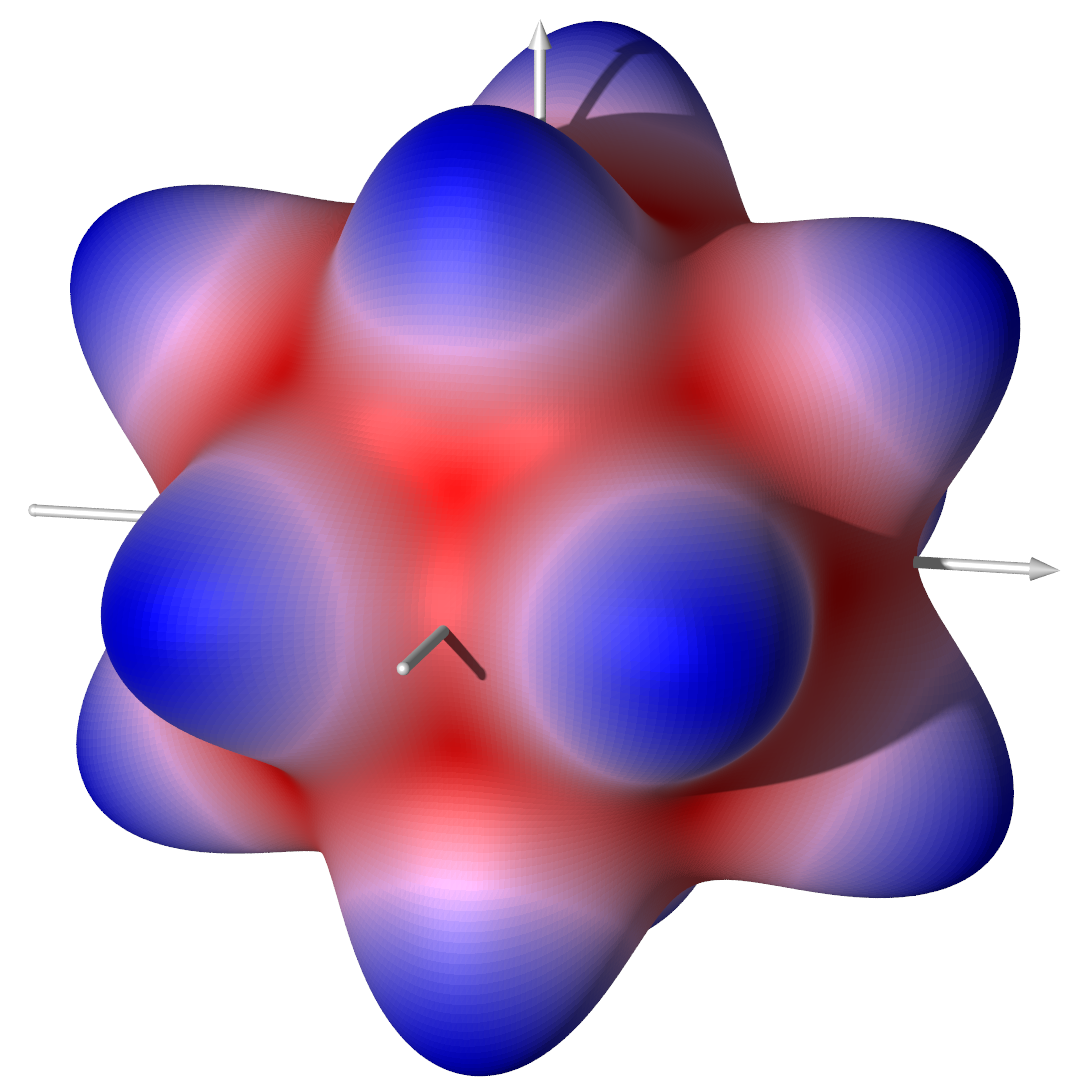
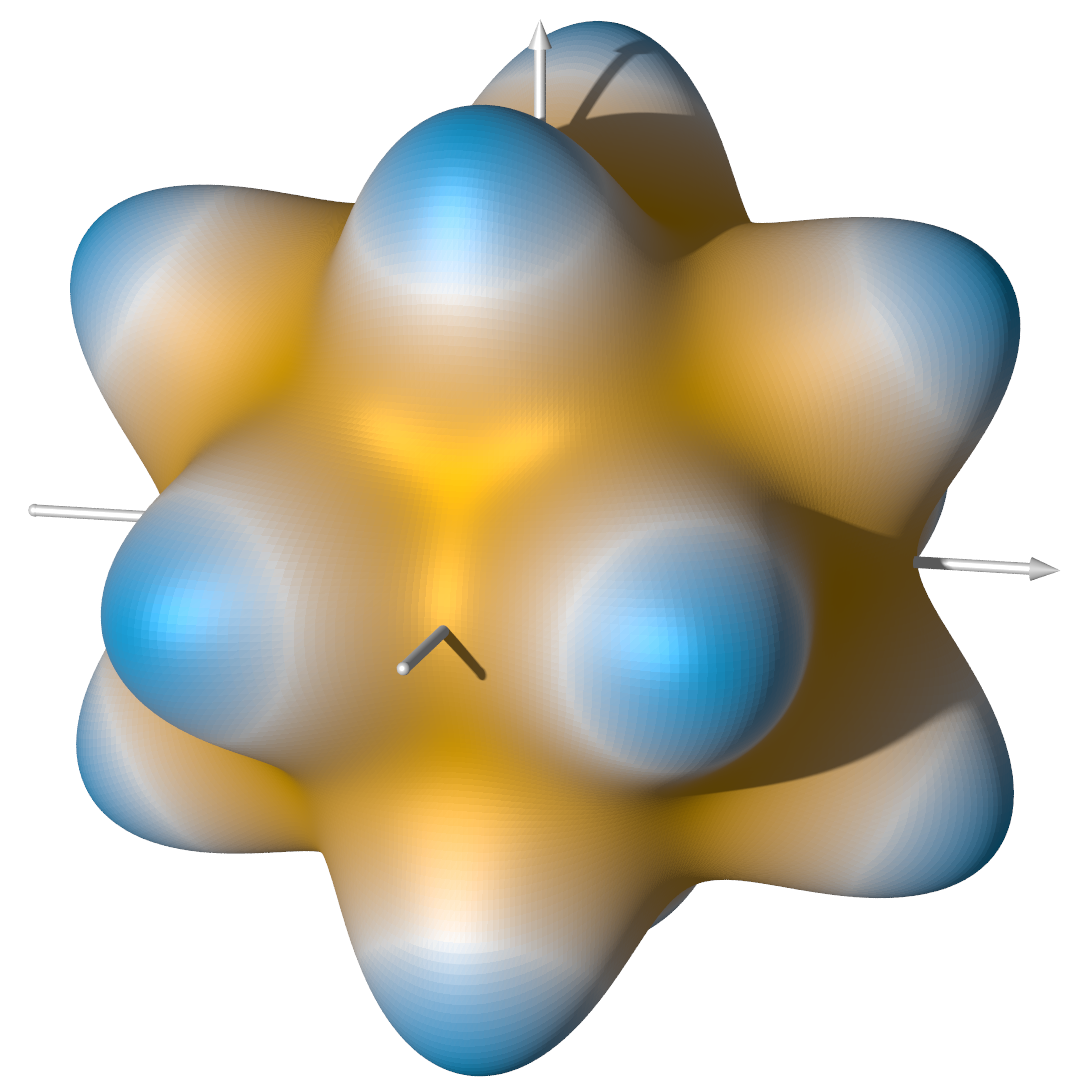
cleanup

diff --git a/buch/papers/kugel/figures/povray/spherecurve.cpp b/buch/papers/kugel/figures/povray/spherecurve.cpp
@@ -87,23 +87,31 @@ public:
  * color on a suitable gradient.
  */
 class color : public vector {
+	double	_u;
 public:
+	double	u() const { return _u; }
 	static double	utop;
 	static double	ubottom;
 	static double	green;
 public:
-	color(double u) {
-		u = (u - ubottom) / (utop - ubottom);
-		if (u > 1) {
-			u = 1;
+	color(double u) : _u(u) {
+		double	U = (u - ubottom) / (utop - ubottom);
+		if (U > 1) {
+			U = 1;
 		}
-		if (u < 0) {
-			u = 0;
+		if (U < 0) {
+			U = 0;
 		}
-		u = pow(u,2);
-		(*this)[0] = u;
-		(*this)[1] = green * u * (1 - u);
-		(*this)[2] = 1-u;
+#if 0
+		U = pow(U,2);
+#endif
+		(*this)[0] = U;
+#if 0
+		(*this)[1] = green * U * (1 - U);
+#else
+		(*this)[1] = 0.5;
+#endif
+		(*this)[2] = 1 - U;
 		double	l = l0norm();
 		for (int i = 0; i < 3; i++) {
 			(*this)[i] /= l;
@@ -219,7 +227,7 @@ private:
 	void	triangle(const vector& v0, const vector& v1, const vector& v2) {
 		fprintf(outfile, "    mesh {\n");
 		vector	c = (v0 + v1 + v2) * (1./3.);
-		vector	color = farbe(c.normalize());
+		color	Color = farbe(c.normalize());
 		vector	V0 = v0 * (1 + F(v0));
 		vector	V1 = v1 * (1 + F(v1));
 		vector	V2 = v2 * (1 + F(v2));
@@ -231,8 +239,8 @@ private:
 		fprintf(outfile, "\t    <%.6f,%.6f,%.6f>\n",
 			V2[0], V2[2], V2[1]);
 		fprintf(outfile, "\t}\n");
-		fprintf(outfile, "\tpigment { color rgb<%.4f,%.4f,%.4f> }\n",
-			color[0], color[1], color[2]);
+		fprintf(outfile, "\tpigment { color rgb<%.4f,%.4f,%.4f> } // %.4f\n",
+			Color[0], Color[1], Color[2], Color.u());
 		fprintf(outfile, "\tfinish { metallic specular 0.5 }\n");
 		fprintf(outfile, "    }\n");
 	}

diff --git a/buch/papers/ellfilter/elliptic.tex b/buch/papers/ellfilter/elliptic.tex
@@ -1,4 +1,5 @@
 \section{Rationale elliptische Funktionen}
+\rhead{Rationale elliptische Funktionen}
 
 Kommen wir nun zum eigentlichen Teil dieses Papers, den rationalen elliptischen Funktionen
 \index{rationale elliptische Funktion}%
@@ -127,6 +128,7 @@ Durch das Rücktransformieren mit der $\cd$-Funktion gelangt man schlussendlich 
 wobei $r_0$ so gewählt werden muss, dass $R_N(w, k) = 1$.
 
 \section{Elliptisches Filter}
+\rhead{Elliptisches Filter}
 
 Um ein elliptisches Filter auszulegen, werden aber nicht die Pol- und Nullstellen der rationalen Funktion gebraucht, sondern diejenigen der Übertragungsfunktion $H(s)$ der komplexen Frequenz $s = j\Omega + \sigma$.
 Der Bezug zum quadratischen Amplitudengang \eqref{ellfilter:eq:quadratic_transfer} ist dabei

diff --git a/buch/papers/ellfilter/jacobi.tex b/buch/papers/ellfilter/jacobi.tex
@@ -1,4 +1,5 @@
 \section{Jacobische elliptische Funktionen}
+\rhead{Jacobische elliptische Funktionen}
 
 Für das elliptische Filter werden, wie es der Name bereits andeutet, elliptische Funktionen gebraucht.
 Wie die trigonometrischen Funktionen Zusammenhänge eines Kreises darlegen, beschreiben die elliptischen Funktionen Ellipsen.

diff --git a/buch/papers/kugel/spherical-harmonics.tex b/buch/papers/kugel/spherical-harmonics.tex
@@ -1,6 +1,7 @@
 % vim:ts=2 sw=2 et spell tw=80:
 
 \section{Construction of the Spherical Harmonics}
+\rhead{Construction of the Spherical Harmonics}
 
 We have finally arrived at the main section that gives this chapter its name.
 The idea is to discuss spherical harmonics, their mathematical origin, some of

diff --git a/buch/papers/kugel/preliminaries.tex b/buch/papers/kugel/preliminaries.tex
@@ -1,6 +1,7 @@
 % vim:ts=2 sw=2 et spell tw=78:
 
 \section{Preliminaries}\label{kugel:sec:preliminaries}
+\rhead{Preliminaries}
 
 The purpose of this section is to dust off some concepts that will become
 important later on. This will enable us to get a richer and more general view

diff --git a/buch/papers/ellfilter/einleitung.tex b/buch/papers/ellfilter/einleitung.tex
@@ -1,4 +1,5 @@
 \section{Einleitung}
+\rhead{Einleitung}
 
 Filter sind womöglich eines der wichtigsten Elemente in der Signalverarbeitung und finden Anwendungen in der digitalen und analogen Elektrotechnik.
 Besonders hilfreich ist die Untergruppe der linearen Filter.

diff --git a/buch/papers/kugel/applications.tex b/buch/papers/kugel/applications.tex
@@ -2,6 +2,7 @@
 
 \section{Applications}
 \label{kugel:sec:applications}
+\rhead{Applications}
 
 As suggested in the previous section, the fact that it is possible to write a
 Fourier style expansion of any function on the surface of the sphere is very

diff --git a/buch/papers/ellfilter/tschebyscheff.tex b/buch/papers/ellfilter/tschebyscheff.tex
@@ -1,4 +1,5 @@
 \section{Tschebyscheff-Filter}
+\rhead{Tschebyscheff-Filter}
 
 Als Einstieg betrachten wir das Tschebyscheff-Filter, welches nahe verwandt ist mit dem elliptischen Filter.
 \index{Tschebyscheff-Filter}%

diff --git a/buch/papers/kugel/proofs.tex b/buch/papers/kugel/proofs.tex
@@ -1,5 +1,6 @@
 % vim:ts=2 sw=2 et spell tw=80:
 \section{Long Proofs}
+\rhead{Long Proofs}
 
 Here, we will give the long and tedious proofs we skipped earlier.
 
